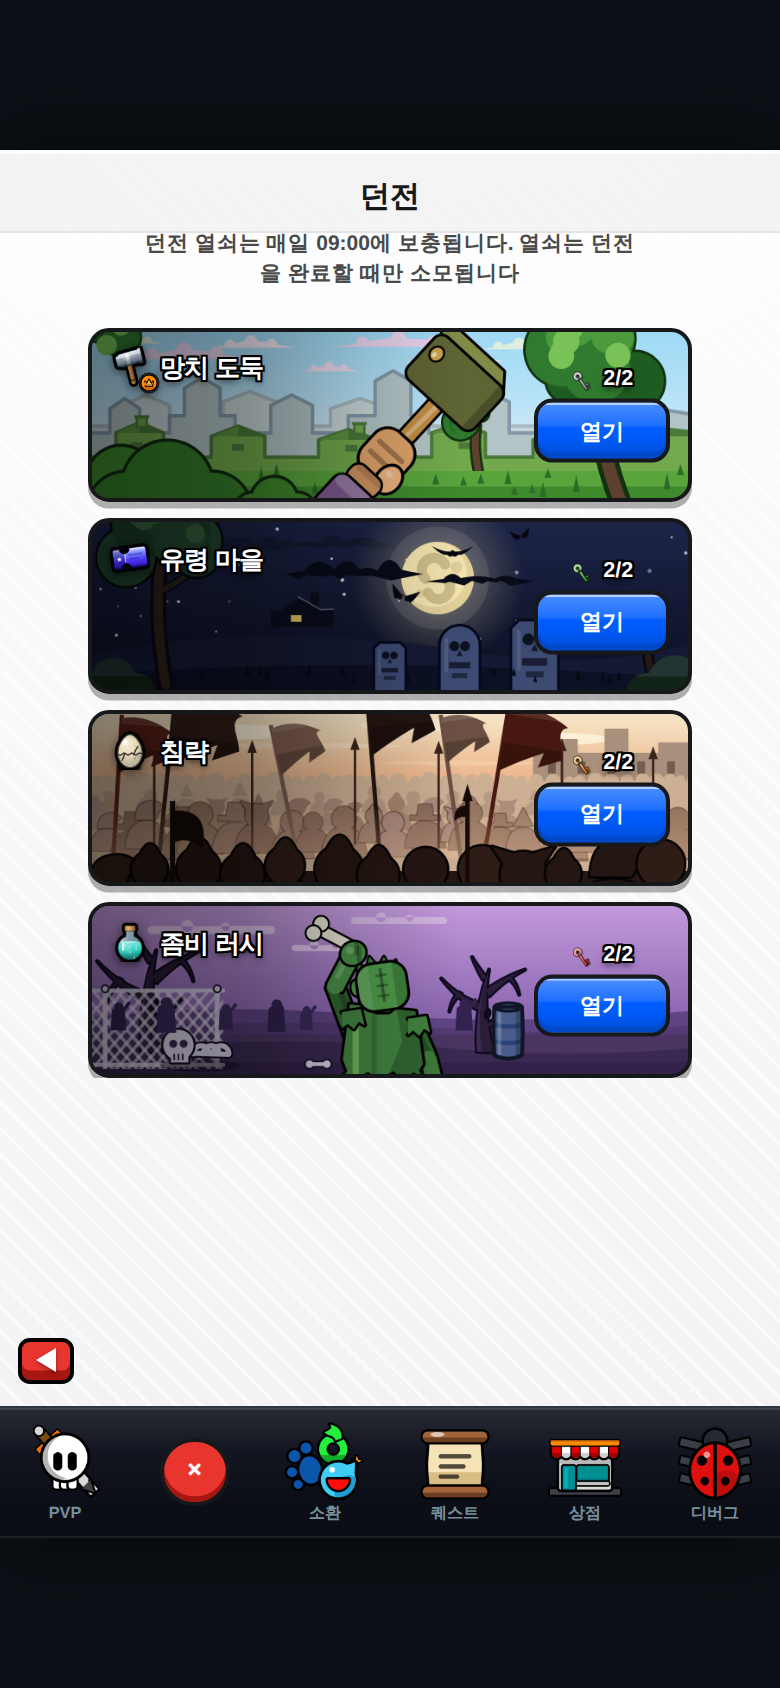
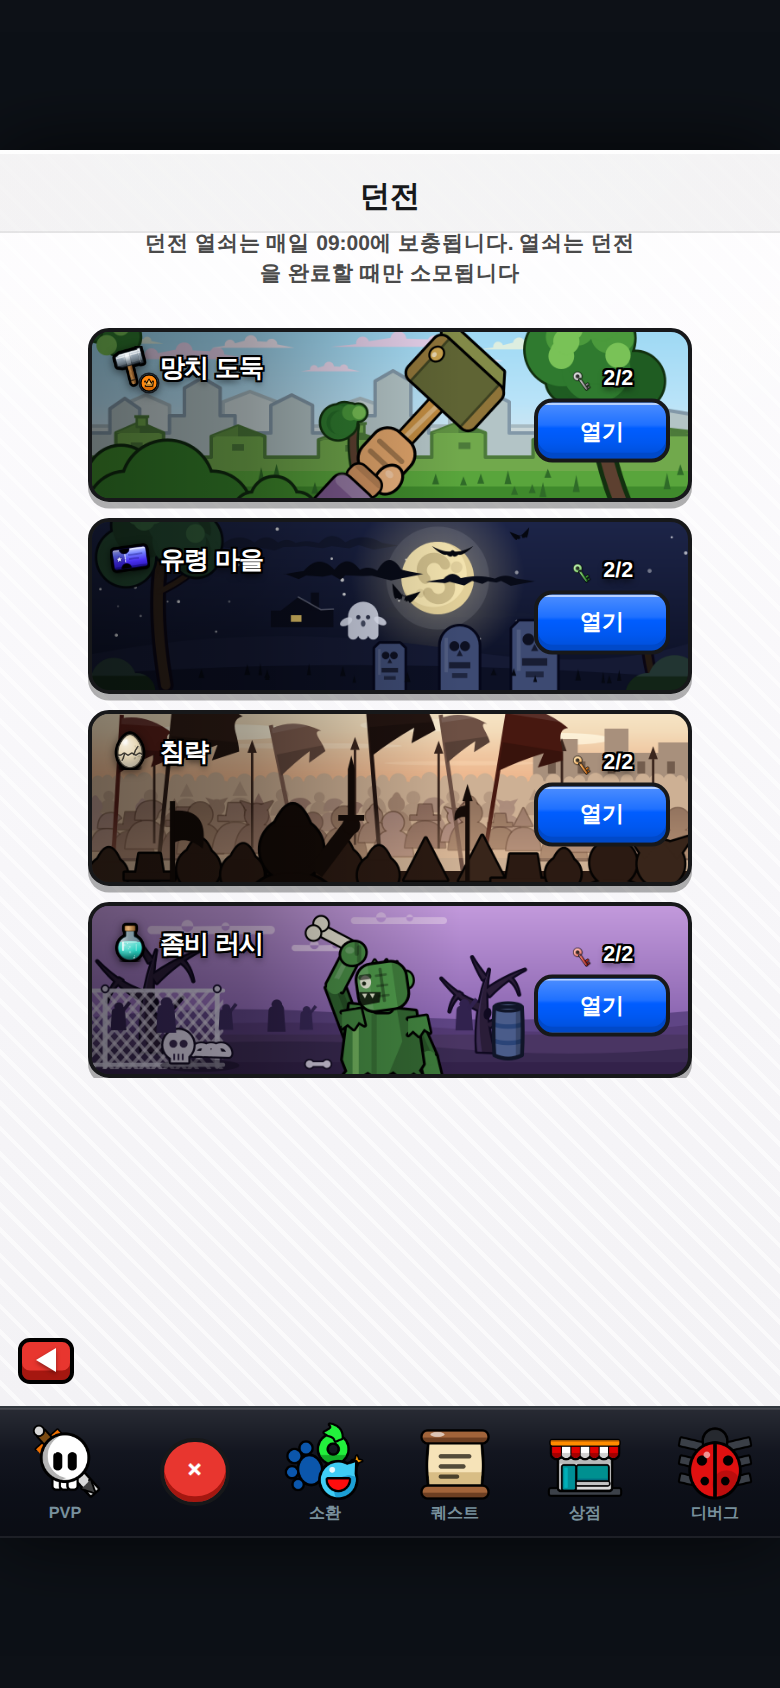
던전 행 R1 비평(59/61) 교집합 반영 — 망치 머리 다크골드 물림 밴드 2줄+중경 나무 탱전시 해소(0.44W), 침공 근경 주역 장수(볏 투구+치켜든 검)+앞 열 민머리 금지·채움 명도 분리, 좀비 3/4 측면 눈·벌린 턱·이빨(정면 점눈 금지와 별개 처방)+타래 축소·귀 이동, 드럼통 광택 플랫화, 유령 마을에 유령 1기(2인 공통 '주인공 부재')

diff --git a/web/js/icongen.js b/web/js/icongen.js
@@ -3764,7 +3764,10 @@ IconGen._genderSym = function (ctx, S, female) {
            좌반부 휘도(title-ink)를 안 깎게 x 0.64W(오른쪽 절반), 캐노피는 지붕선(0.54~0.62H)에 걸치는
            높이만. 뒤이어 그리는 ground(0.82H)가 뿌리를 덮어 접지는 자연히 해결된다. */
         (() => {
-            const tx = W * 0.645;
+            /* 이번 런 비평가 B '망치에 눌려 찌그러진 나무'(탱전시): 0.645W 는 망치 머리(0.55~0.67W)
+               바로 밑이라 줄기가 머리에서 삐져나온 것처럼 읽혔다 — 0.44W 로 이동(주먹 왼쪽,
+               스카이라인 골 오클루전은 유지). 좌반부 휘도는 105 로 여유가 커서 안전. */
+            const tx = W * 0.44;
             [[H * 0.040 + H * 0.026, '#12300f'], [H * 0.040, '#5d4030']].forEach(([lw, c]) => {   // 줄기(키라인 언더레이 — R2 공통 '전경 키라인 비일관')
                 ctx.strokeStyle = c; ctx.lineCap = 'round'; ctx.lineWidth = lw;
                 ctx.beginPath(); ctx.moveTo(tx + H * 0.02, H * 0.86); ctx.quadraticCurveTo(tx - H * 0.02, H * 0.70, tx, H * 0.56); ctx.stroke();
@@ -3897,7 +3900,13 @@ IconGen._genderSym = function (ctx, S, female) {
         ink(ctx, S, rrect(ctx, S, -0.160, -0.255, 0.320, 0.510, 0.050), '#5f6434', 0.032);                                 // 정면
         ctx.save();
         ctx.beginPath(); rrect(ctx, S, -0.160, -0.255, 0.320, 0.510, 0.050)(); ctx.clip();
-        on(ctx, rrect(ctx, S, -0.160, 0.203, 0.320, 0.052, 0), 'rgba(0,0,0,.22)');        // 자루 쪽 타격면의 얕은 그늘(베벨 힌트)
+        /* 금속 밴드 2줄(이번 런 A·B 공통 '궤짝/두부 블록' — 은색 전환은 채택 금지라 재질 단서를
+           밴드로 세운다): 양 타격면 끝의 다크골드 물림 테. 장축과 직교 방향 하나뿐이라 세로
+           광택선이 없는 지금은 타탄 함정(6차)과 무관하다. */
+        [-0.255, 0.203].forEach(y => {
+            on(ctx, rrect(ctx, S, -0.160, y, 0.320, 0.052, 0), '#8f7439');
+            on(ctx, rrect(ctx, S, -0.160, y + (y < 0 ? 0.052 : -0.014), 0.320, 0.014, 0), 'rgba(0,0,0,.35)');   // 밴드 안쪽 에지
+        });
         ctx.restore();
         ink(ctx, S, ell(ctx, S, 0.052, -0.190, 0.040, 0.034), '#c9a24e', 0.024);          // 쐐기 못
         on(ctx, ell(ctx, S, 0.040, -0.198, 0.016, 0.013), 'rgba(255,255,255,.55)');       // 못 하이라이트
@@ -4042,6 +4051,26 @@ IconGen._genderSym = function (ctx, S, female) {
             fill(ctx, '#e8c86a', () => ctx.rect(hx + hw * 0.32, hy - hh * 0.40, hw * 0.17, hh * 0.22));   // 불 켜진 창
         })();
         fill(ctx, '#0c1024', () => { ctx.moveTo(0, H * 0.90); ctx.quadraticCurveTo(W * 0.45, H * 0.78, W, H * 0.92); ctx.lineTo(W, H); ctx.lineTo(0, H); });
+        /* 유령 1기(이번 런 비평가 A·B 공통 '유령 마을에 유령 부재 — 주인공 없이 소품 나열'):
+           오두막 오른쪽 언덕 위에 떠 있는 반투명 흰 유령 — 머리 돔 + 물결 자락 3혹 + 벌린 팔 +
+           달빛 실루엣의 눈·입. 블록 머리말의 '달·묘비가 주인공이라 따로 안 얹는다' 전제는 비평가
+           2쌍 연속 같은 지적이라 뒤집는다. 좌반부 휘도(title-ink 하한 26)는 밝아지는 쪽이라 안전. */
+        (() => {
+            const gx = W * 0.455, gy = H * 0.565, r = H * 0.088, gc = 'rgba(235,240,255,.85)';
+            fill(ctx, gc, () => {
+                ctx.arc(gx, gy, r, Math.PI, 0);                                                   // 머리 돔
+                ctx.lineTo(gx + r, gy + r * 1.15);
+                ctx.arc(gx + r * 0.66, gy + r * 1.15, r * 0.34, 0, Math.PI);                      // 물결 자락(오른→왼)
+                ctx.arc(gx, gy + r * 1.15, r * 0.34, 0, Math.PI);
+                ctx.arc(gx - r * 0.66, gy + r * 1.15, r * 0.34, 0, Math.PI);
+                ctx.closePath();
+            });
+            fill(ctx, gc, () => ctx.ellipse(gx - r * 1.12, gy + r * 0.32, r * 0.44, r * 0.24, -0.5, 0, Math.PI * 2));   // 팔
+            fill(ctx, gc, () => ctx.ellipse(gx + r * 1.12, gy + r * 0.26, r * 0.44, r * 0.24, 0.5, 0, Math.PI * 2));
+            fill(ctx, 'rgba(20,26,52,.85)', () => ctx.arc(gx - r * 0.32, gy + r * 0.02, r * 0.14, 0, Math.PI * 2));     // 눈
+            fill(ctx, 'rgba(20,26,52,.85)', () => ctx.arc(gx + r * 0.32, gy + r * 0.02, r * 0.14, 0, Math.PI * 2));
+            fill(ctx, 'rgba(20,26,52,.72)', () => ctx.ellipse(gx, gy + r * 0.44, r * 0.15, r * 0.21, 0, 0, Math.PI * 2));   // 놀란 입
+        })();
         /* 묘비 — 원본은 우하단에 **큰 것 둘**(회청 판 + 해골·RIP 각인)이고 [열기]가 일부를 덮는다.
            다섯 개를 고루 늘어놓던 종전 배치는 원본과 다르고 작아서 '바닥 혹'으로 읽혔다. */
         const stone = (x, y, w, h, sq) => {                                // sq=true 면 각진 어깨(형태 리듬 — 비평가 5차)
@@ -4272,10 +4301,33 @@ IconGen._genderSym = function (ctx, S, female) {
             hz.addColorStop(0, 'rgba(242,196,156,0)'); hz.addColorStop(1, 'rgba(242,196,156,.30)');
             ctx.fillStyle = hz; ctx.fillRect(0, H * 0.40, W, H * 0.45);
         })();
-        fill(ctx, '#241612', () => ctx.rect(0, H * 0.925, W, H * 0.08));   // 앞 열 바탕 띠 — 이게 없으면 머리들이 '떠 있는 검은 공'이 된다(어깨가 크롭 아래라 몸이 안 이어진다)
-        for (let i = 0; i < 13; i++) {                                     // 앞 열 — 키라인 + 폭 변주(균일 반원 반복 = 스캘럽 무늬, 비평가 6차)
-            figure(W * (i / 13 + 0.015 + R() * 0.025), H * (0.875 + R() * 0.08), 1.75 + R() * 0.8, i % 4 ? '#241612' : '#2e1d16', pickKind(R()), '#050302', 1.6 + R() * 0.7, H * 0.026);   // 머리가 하단 크롭에 잘리면 삼각 톱니로 읽힌다 — 0.875H · R2 공통: 전경 키라인 굵기 통일
+        fill(ctx, '#2b1a12', () => ctx.rect(0, H * 0.925, W, H * 0.08));   // 앞 열 바탕 띠 — 이게 없으면 머리들이 '떠 있는 검은 공'이 된다(어깨가 크롭 아래라 몸이 안 이어진다)
+        /* 앞 열(이번 런 A·B 공통 '전경 검은 덩어리 = 바위/가마니'): ⑴ 민머리(kind 0)를 금지하고
+           투구 단서 있는 종(뾰족·뿔·볏·챙)만 뽑는다 — 사람 단서가 실루엣에 최소 1개씩 실린다.
+           ⑵ 채움을 한 단 밝혀(#241612→#2b1a12 계열) 근흑 키라인(#050302)이 갈리게 한다 —
+           종전엔 채움·키라인이 다 근흑이라 윤곽 정보가 0이었다. */
+        for (let i = 0; i < 13; i++) {
+            figure(W * (i / 13 + 0.015 + R() * 0.025), H * (0.875 + R() * 0.08), 1.75 + R() * 0.8, i % 4 ? '#2b1a12' : '#38251a', [1, 2, 4, 5][(R() * 4) | 0], '#050302', 1.6 + R() * 0.7, H * 0.026);   // 머리가 하단 크롭에 잘리면 삼각 톱니로 읽힌다 — 0.875H · R2 공통: 전경 키라인 굵기 통일
         }
+        /* 근경 주역 1기(이번 런 A·B 공통 '초점 부재 — 균일 텍스처는 배너가 아니라 배경 타일'):
+           좌중앙에 1.5배+ 스케일의 볏 투구 장수 + 치켜든 검. 사람 단서(투구 볏·팔뚝·검 가드)를
+           실루엣 단계에서 명시한다. 우측 28% UI 열은 피한다(≤0.66W). */
+        (() => {
+            const c = '#140b07';
+            figure(W * 0.335, H * 0.800, 3.3, c, 4, '#050302', 1.9, H * 0.030);            // 몸통+볏 투구(앞 열보다 크게·근흑)
+            fill(ctx, c, () => {                                                            // 오른팔 — 어깨에서 우상으로 뻗는 팔뚝
+                ctx.moveTo(W * 0.335 + H * 0.10, H * 0.905);
+                ctx.lineTo(W * 0.335 + H * 0.30, H * 0.640);
+                ctx.lineTo(W * 0.335 + H * 0.385, H * 0.680);
+                ctx.lineTo(W * 0.335 + H * 0.175, H * 0.960);
+                ctx.closePath();
+            });
+            const sx = W * 0.335 + H * 0.345, sy = H * 0.660;                               // 주먹 위 검(칼끝 위로)
+            fill(ctx, c, () => ctx.arc(sx, sy, H * 0.052, 0, Math.PI * 2));                 // 주먹
+            fill(ctx, c, () => ctx.rect(sx - H * 0.020, H * 0.335, H * 0.040, H * 0.310));  // 칼몸
+            fill(ctx, c, () => { ctx.moveTo(sx - H * 0.020, H * 0.335); ctx.lineTo(sx, H * 0.255); ctx.lineTo(sx + H * 0.020, H * 0.335); ctx.closePath(); });   // 칼끝
+            fill(ctx, c, () => ctx.rect(sx - H * 0.075, H * 0.600, H * 0.150, H * 0.034));  // 가드(가로바 — '검' 판독의 핵심)
+        })();
         /* 근경 무기 실루엣(3차 재채점 교집합 ⓔ): 앞 열 머리 위로 솟는 도끼·검·미늘창 3자루 —
            창 6자루는 중경 몫이라 가늘어서, 근경엔 '무장한 무리'를 세우는 굵은 실루엣이 없었다.
            우측 28%는 UI 열이라 피하고(≤0.66W), 앞 열보다 한 단 어두운 근흑으로 갈라 층을 만든다. */
@@ -4419,7 +4471,8 @@ IconGen._genderSym = function (ctx, S, female) {
                 ctx.beginPath(); ctx.ellipse(bx + bw / 2, by + bh * k, bw * 0.56, ey, 0, 0, Math.PI);
                 ctx.strokeStyle = '#2a4478'; ctx.lineWidth = bh * 0.09; ctx.stroke();
             });
-            fill(ctx, 'rgba(255,255,255,.20)', () => ctx.rect(bx + bw * 0.12, by, bw * 0.13, bh + ey * 2)); // 세로 하이라이트
+            /* (세로 흰 하이라이트는 뺐다 — 이번 런 B '광택 렌더링이 플랫 실루엣 소품들과 재질
+               문법이 따로 논다': 플랫 2톤(바탕+오른쪽 그늘 한 장)으로 강등) */
             fill(ctx, 'rgba(0,0,0,.22)', () => ctx.rect(bx + bw * 0.78, by, bw * 0.22, bh + ey * 2));       // 오른쪽 음영
             ctx.restore();
             fill(ctx, '#6479a6', () => ctx.ellipse(bx + bw / 2, by, bw / 2, ey, 0, 0, Math.PI * 2));        // 윗면
@@ -4529,9 +4582,10 @@ IconGen._genderSym = function (ctx, S, female) {
         /* 머리털 = 헝클어진 삼각 타래(R2 A '연결된 팔 없는 혹 3개 = 남의 손가락' — 원형 혹은 두
            라운드 연속 오독이라 폐기): 밑동이 두피에 박힌 뾰족 타래 3장, 키·기울기 변주. */
         /* ⚠ 타래가 크고 양끝 2개뿐이면 '고양이 귀'가 된다(캡처 확인) — 작게 4개, 가운데가 제일 크게. */
-        [[1.578, 0.372, 0.044, 0.028, -0.018], [1.638, 0.362, 0.062, 0.032, -0.008], [1.702, 0.364, 0.052, 0.030, 0.012], [1.756, 0.378, 0.038, 0.024, 0.022]].forEach(([hx, hy, hh, hw, lean]) =>
+        /* 타래는 3개로 축소·우측으로 몰아 정수리 실루엣을 낮춘다(이번 런 B '정수리 돌기 = 선인장 단서') */
+        [[1.652, 0.366, 0.042, 0.026, 0.006], [1.712, 0.368, 0.036, 0.024, 0.014], [1.762, 0.380, 0.028, 0.020, 0.022]].forEach(([hx, hy, hh, hw, lean]) =>
             ink(ctx, S, poly(ctx, S, [[hx - hw, hy], [hx + lean, hy - hh], [hx + hw, hy]]), '#3f7d3c', 0.022));
-        ink(ctx, S, ell(ctx, S, 1.536, 0.470, 0.034, 0.046), '#4f9a4b', 0.026);                   // 귀(왼 실루엣 밖으로)
+        ink(ctx, S, ell(ctx, S, 1.826, 0.462, 0.034, 0.046), '#4f9a4b', 0.026);                   // 귀 — 3/4 측면이라 얼굴 반대(오른) 실루엣 밖으로
         ink(ctx, S, head, '#4f9a4b', 0.032);
         ctx.save();
         ctx.beginPath(); head(); ctx.clip();
@@ -4539,9 +4593,19 @@ IconGen._genderSym = function (ctx, S, female) {
            3배 확대에서 '무작위 반점'이라 걷었다(ⓐ 처방과 한 벌). */
         on(ctx, rrect(ctx, S, 1.542, 0.350, 0.070, 0.262, 0), 'rgba(255,255,255,.12)');           // 왼쪽 빛면
         on(ctx, rrect(ctx, S, 1.752, 0.350, 0.068, 0.262, 0), 'rgba(0,0,0,.18)');                 // 오른쪽 음영
-        on(ctx, rrect(ctx, S, 1.672, 0.372, 0.018, 0.200, 0.009), 'rgba(0,0,0,.34)');             // 뒤통수 스티치 흉터
+        on(ctx, rrect(ctx, S, 1.672, 0.372, 0.018, 0.200, 0.009), 'rgba(0,0,0,.34)');             // 두피 스티치 흉터(측면에서도 좀비 단서)
         [0.408, 0.468, 0.528].forEach(y =>
             on(ctx, rrect(ctx, S, 1.646, y, 0.070, 0.014, 0.007), 'rgba(0,0,0,.30)'));
+        /* 3/4 측면 얼굴 단서(이번 런 A·B 공통 '얼굴 단서 0 = 선인장/봉제인형 — 눈 1 + 입만 있어도
+           소멸'): 왼(뼈 든 팔 쪽) 실루엣 가장자리에 처진 눈꺼풀의 눈 하나 + 벌어진 턱 + 이빨 1개.
+           ⚠ 6차 금지는 **정면 점눈 둘 + 이빨**('귀여운 로봇') — 한쪽 눈 측면 프로필은 별개 처방이고
+           이번 비평가 2인이 공통으로 요구했다. 되물리면 이 메모째 판단 근거를 남길 것. */
+        on(ctx, ell(ctx, S, 1.588, 0.442, 0.032, 0.038), '#e8ecd8');                              // 눈 흰자
+        on(ctx, rrect(ctx, S, 1.550, 0.398, 0.076, 0.030, 0.014), 'rgba(0,0,0,.55)');             // 처진 눈꺼풀
+        on(ctx, circle(ctx, S, 1.578, 0.450, 0.012), '#1c2a16');                                  // 동공(왼쪽을 본다)
+        on(ctx, poly(ctx, S, [[1.536, 0.494], [1.668, 0.512], [1.652, 0.570], [1.536, 0.576]]), 'rgba(10,16,8,.85)');   // 벌어진 턱(실루엣 가장자리에 물림 — 작으면 수염 얼룩으로 읽힌다)
+        [[1.558, 0.506], [1.602, 0.512]].forEach(([tx2, ty2]) =>
+            on(ctx, poly(ctx, S, [[tx2, ty2], [tx2 + 0.030, ty2 + 0.004], [tx2 + 0.013, ty2 + 0.030]]), '#dfe3cc'));    // 윗니 2개
         ctx.restore();
         ctx.restore();
         /* 뼈다귀(3차 재채점 교집합 ⓐ — 세로로 세운 짧은 뼈의 끝 혹 2개가 머리 위 '눈알'로 오독):
